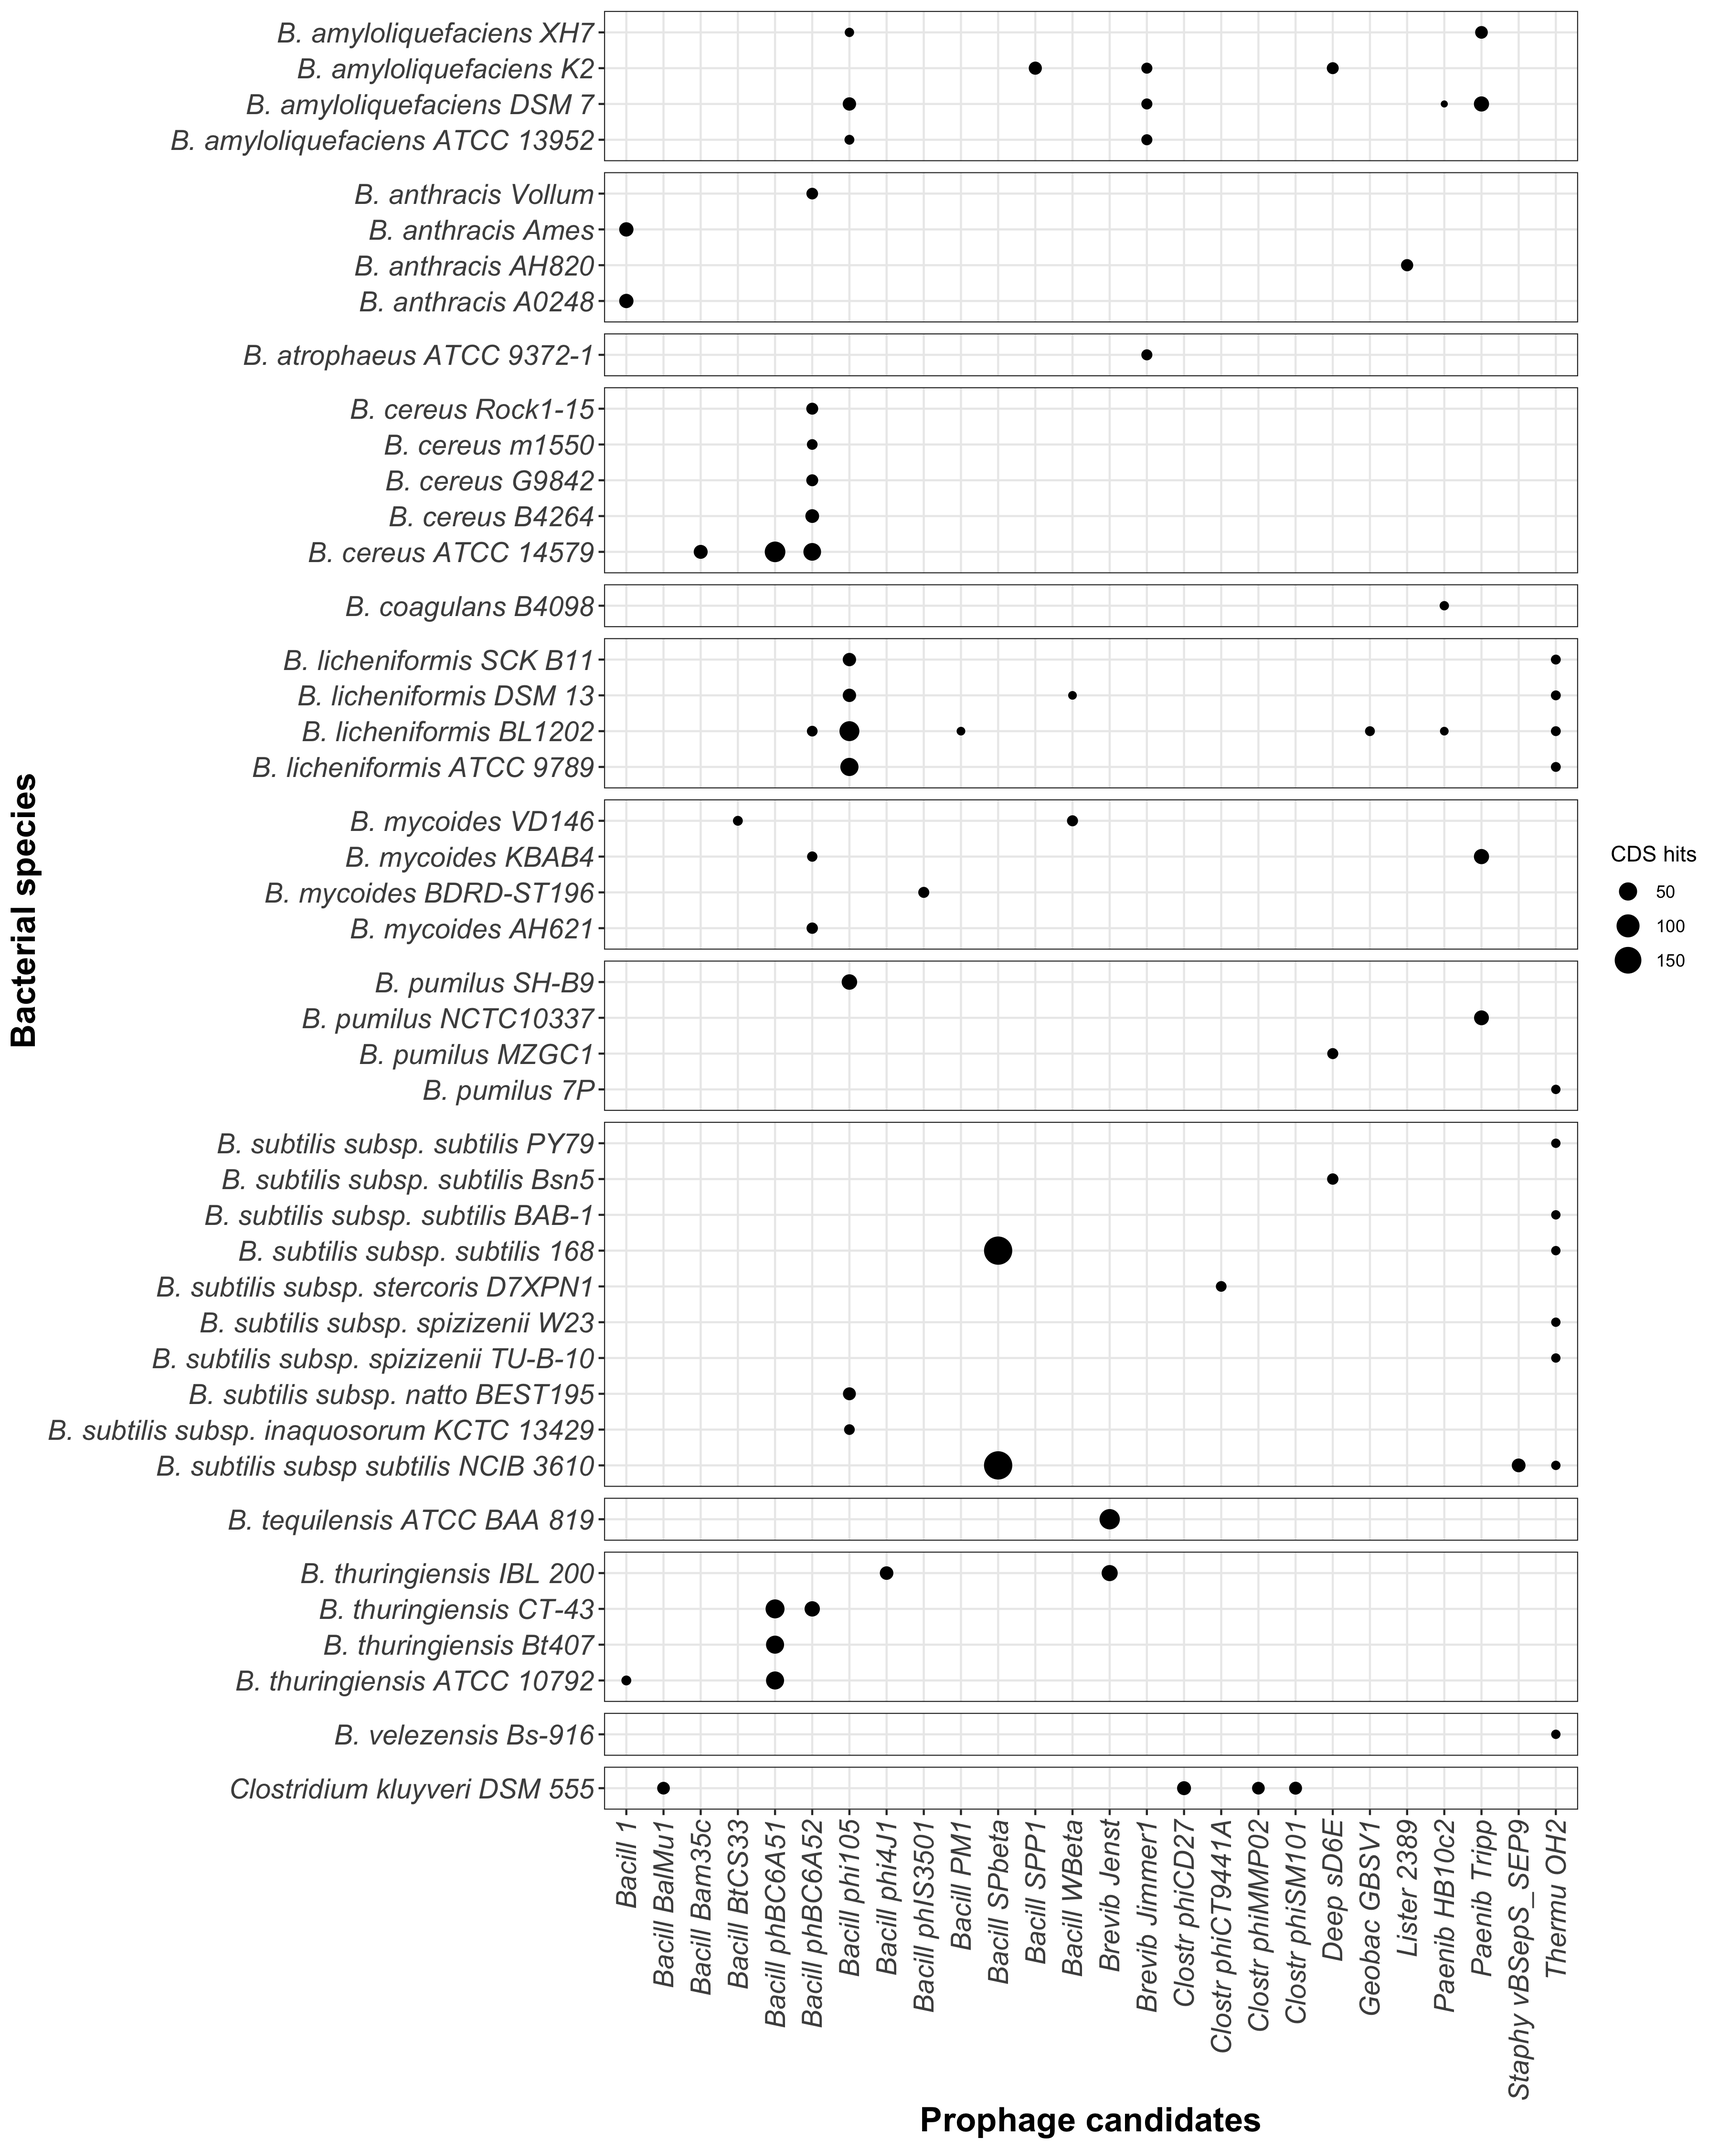
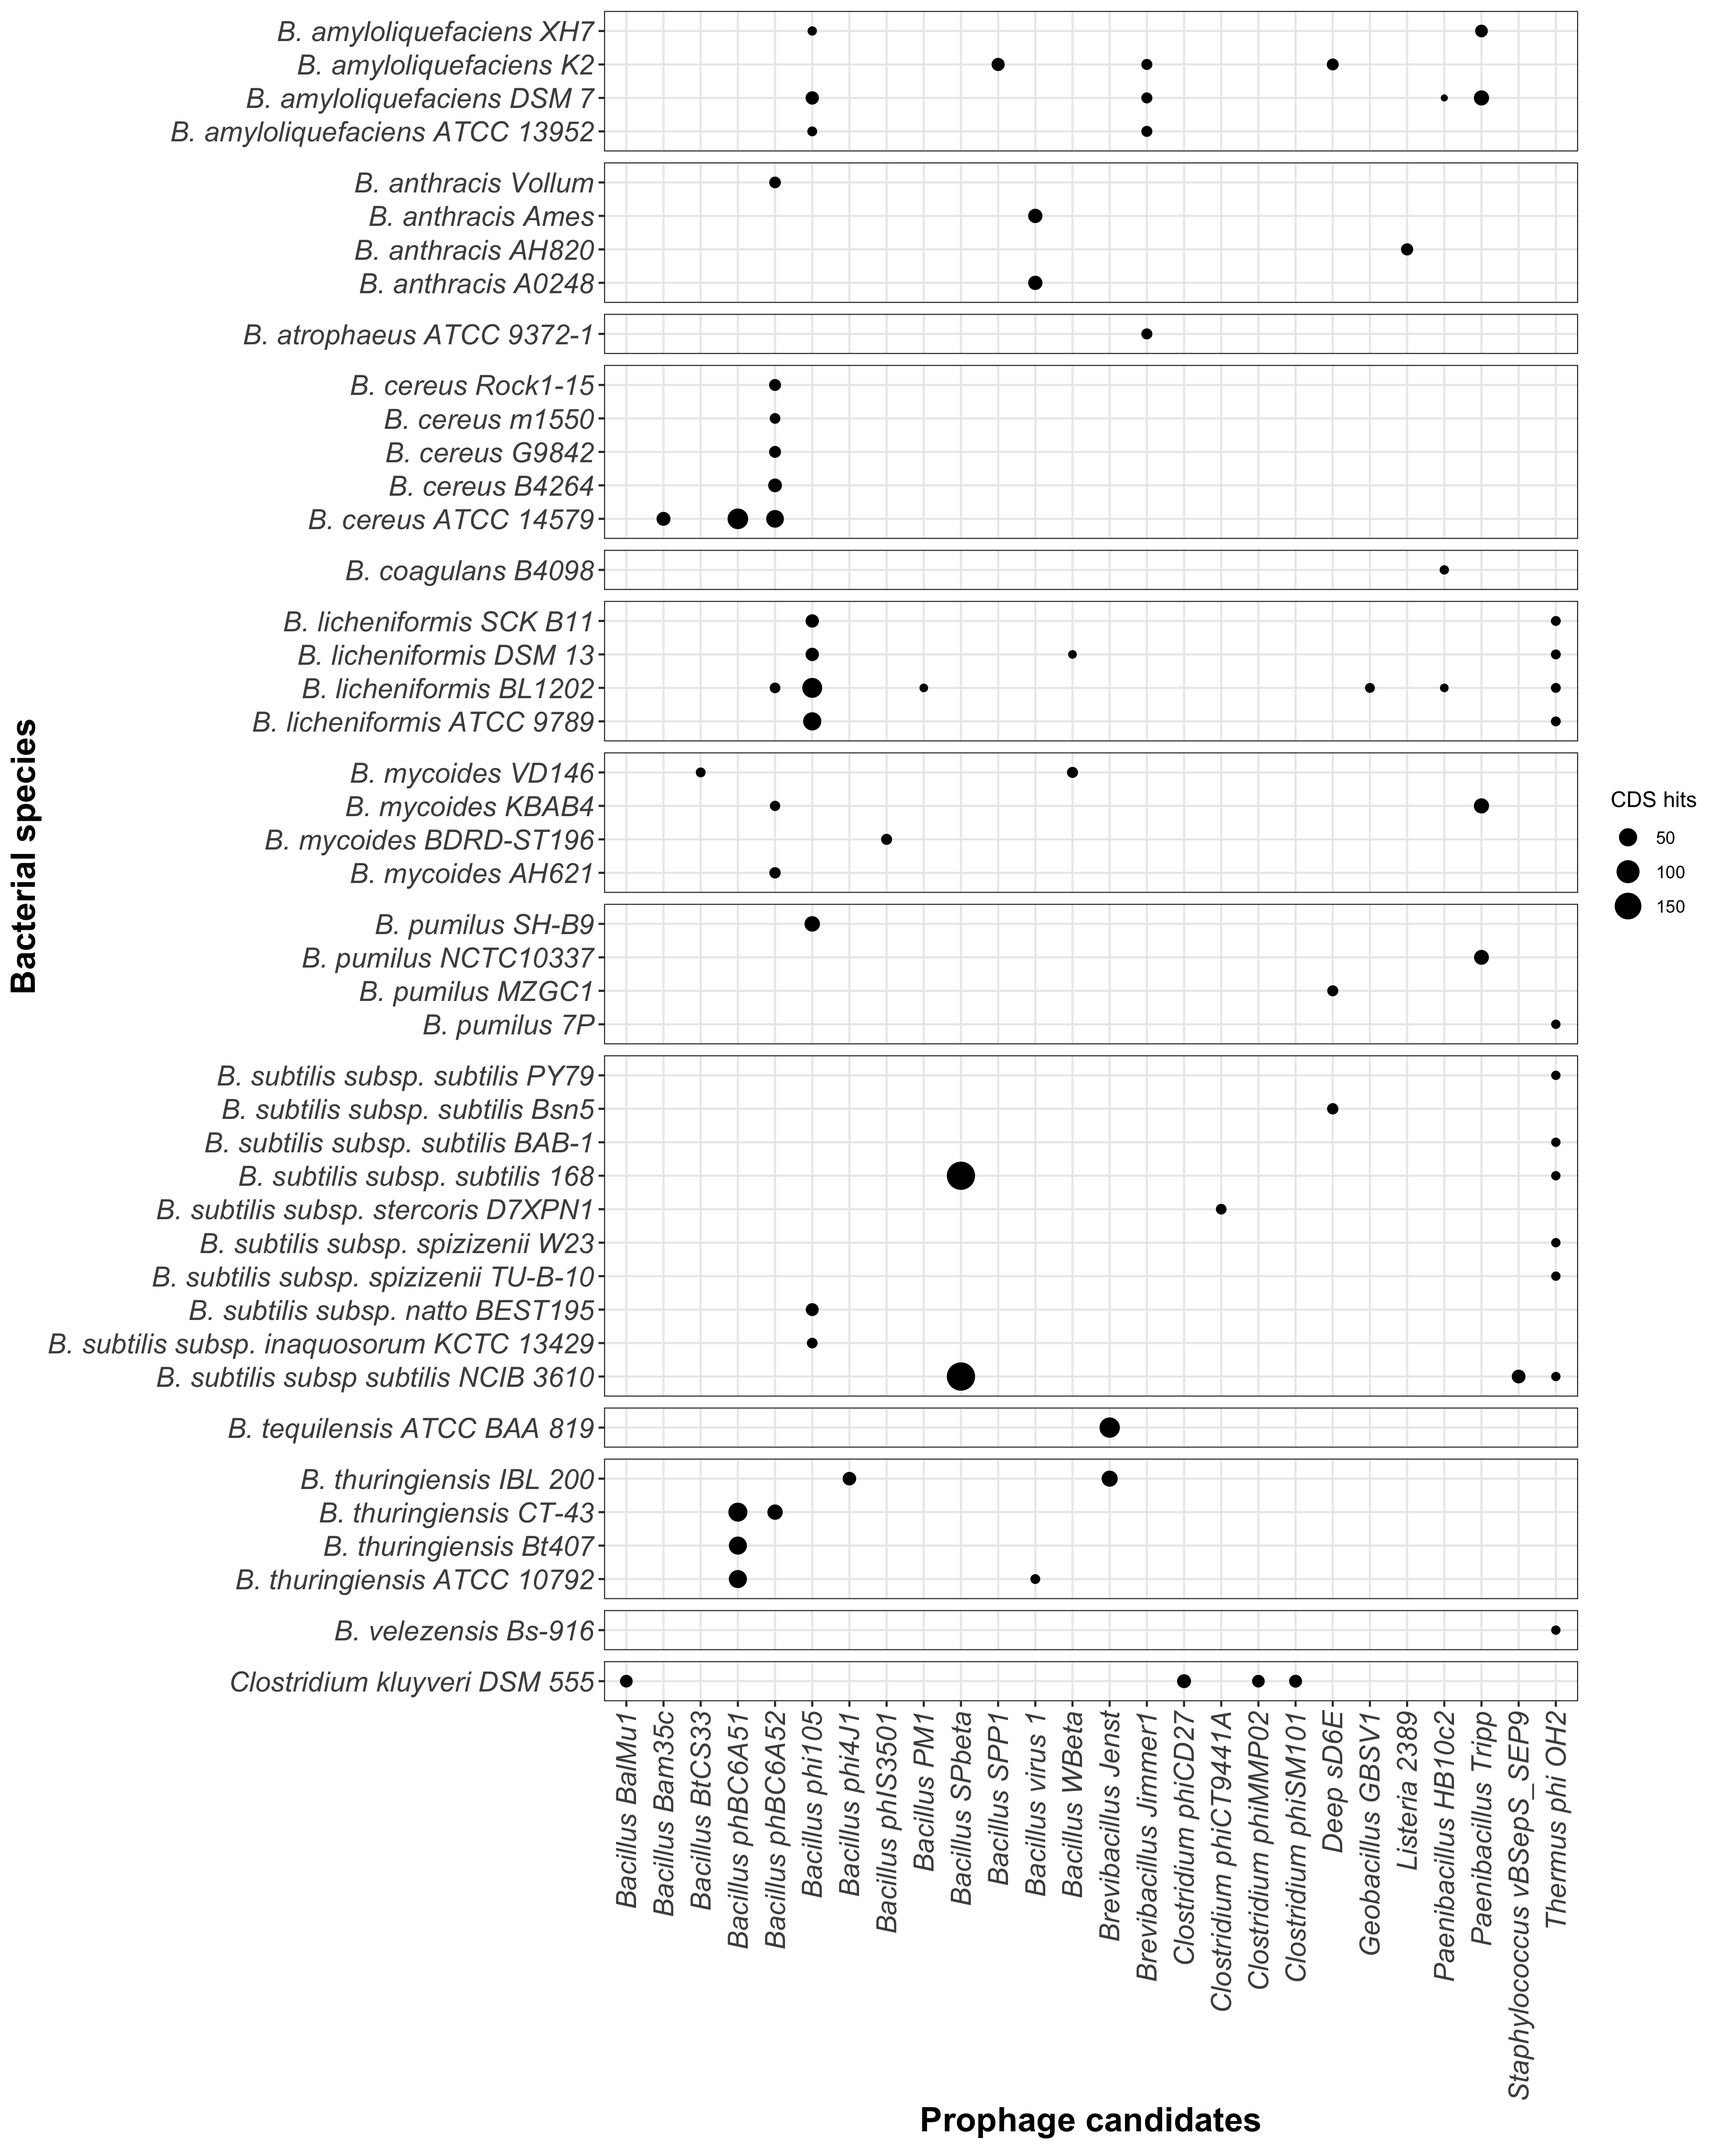
Phage names completed

Changed region(s): [[0.0622, 0.0, 0.9333, 0.9333], [0.9333, 0.3733, 0.9956, 0.4667], [0.0, 0.3422, 0.0311, 0.4978]]

diff --git a/README.md b/README.md
@@ -114,7 +114,7 @@ intact_phages <- df %>%
   filter(CDS_hits == max(CDS_hits)) %>% 
   mutate(Epithet = as_factor(word(species,2)))
 
-write_tsv(x = intact_phages, path = "Data/intact-phages_raw-01.tsv")
+#write_tsv(x = intact_phages, path = "Data/intact-phages_raw-01.tsv")
 
 kable(intact_phages[1:5,])
 ```
